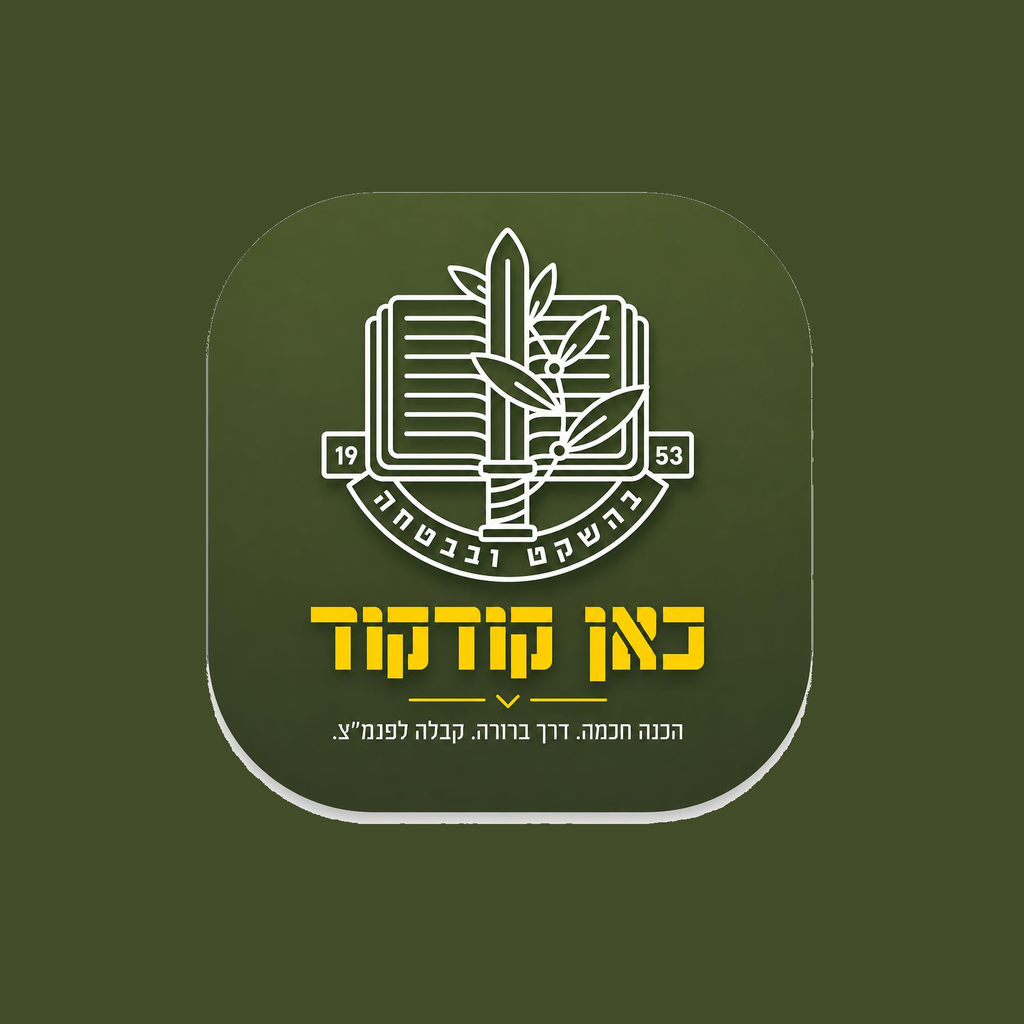
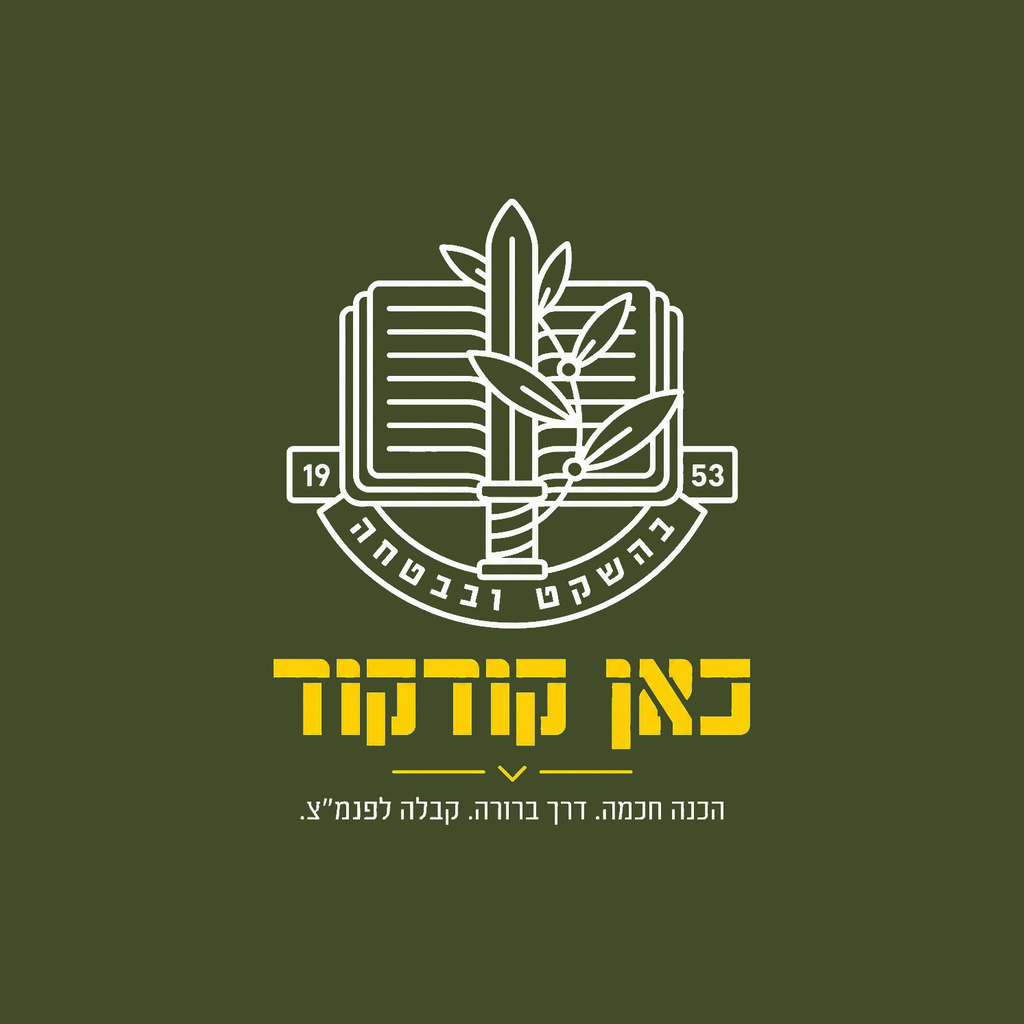
אייקון נקי (בלי מסגרת/צל) + כפתור "קשה לי" להורדת רמה
- אייקון: בידוד האמנות מהאריח והרכבה על רקע זית אחיד — בלי מסגרת,
  צל או קשת שיוריות
- כושר: כפתור "קשה לי" שמוריד את היעד היומי בהדרגה (הפוך מ"קל לי"),
  לא מתחת לנקודת הפתיחה, עם יציאה ממצב תחזוקה בעת הצורך

Claude-Session: https://claude.ai/code/session_013598VmBQVKx8byS7Hrmw2w

diff --git a/src/components/GoalCard.js b/src/components/GoalCard.js
@@ -5,12 +5,13 @@ import Card from './Card';
 import ProgressBar from './ProgressBar';
 import MiniChart from './MiniChart';
 import { colors, radius, spacing, font } from '../theme';
-import { formatValue, unitLabel, goalProgress, reachedFinal } from '../utils/fitness';
+import { formatValue, unitLabel, goalProgress, reachedFinal, atStart } from '../utils/fitness';
 import { HEB_WEEKDAYS_SHORT } from '../utils/date';
 
-export default function GoalCard({ goal, todayDone, onToggleEnabled, onEdit, onBump, onMarkDone, onUnmark }) {
+export default function GoalCard({ goal, todayDone, onToggleEnabled, onEdit, onBump, onLower, onMarkDone, onUnmark }) {
   const measured = goal.tracking === 'measured';
   const done = reachedFinal(goal) || goal.maintenance;
+  const minReached = atStart(goal);
   const daysText = goal.trainingDays.map((d) => HEB_WEEKDAYS_SHORT[d]).join(' · ');
 
   return (
@@ -58,20 +59,34 @@ export default function GoalCard({ goal, todayDone, onToggleEnabled, onEdit, onB
         </View>
       )}
 
-      {/* כפתורי פעולה */}
-      <View style={styles.actions}>
-        {!done ? (
-          <Pressable style={[styles.actionBtn, styles.easyBtn]} onPress={() => onBump(goal.id)}>
-            <Ionicons name="trending-up" size={16} color={colors.gold} />
-            <Text style={styles.easyText}>קל לי — העלה יעד</Text>
+      {/* בקרת רמה — "קשה לי" / "קל לי" — רק לתרגילים נמדדים */}
+      {measured && (
+        <View style={styles.levelRow}>
+          <Pressable
+            style={[styles.actionBtn, styles.hardBtn, minReached && styles.btnDisabled]}
+            onPress={() => onLower(goal.id)}
+            disabled={minReached}
+          >
+            <Ionicons name="trending-down" size={16} color={minReached ? colors.creamDim : colors.cream} />
+            <Text style={[styles.hardText, minReached && { color: colors.creamDim }]}>קשה לי</Text>
           </Pressable>
-        ) : (
-          <View style={[styles.actionBtn, styles.maintBtn]}>
-            <Ionicons name="shield-checkmark" size={16} color={colors.success} />
-            <Text style={styles.maintText}>מצב תחזוקה</Text>
-          </View>
-        )}
 
+          {done ? (
+            <View style={[styles.actionBtn, styles.maintBtn]}>
+              <Ionicons name="shield-checkmark" size={16} color={colors.success} />
+              <Text style={styles.maintText}>תחזוקה</Text>
+            </View>
+          ) : (
+            <Pressable style={[styles.actionBtn, styles.easyBtn]} onPress={() => onBump(goal.id)}>
+              <Ionicons name="trending-up" size={16} color={colors.gold} />
+              <Text style={styles.easyText}>קל לי</Text>
+            </Pressable>
+          )}
+        </View>
+      )}
+
+      {/* סימון ביצוע */}
+      <View style={styles.actions}>
         {todayDone ? (
           <Pressable style={[styles.actionBtn, styles.doneBtn]} onPress={() => onUnmark(goal.id)}>
             <Ionicons name="checkmark-circle" size={18} color={colors.bg} />
@@ -123,13 +138,17 @@ const styles = StyleSheet.create({
   numLabel: { color: colors.creamDim, fontSize: font.tiny },
   numBig: { color: colors.gold, fontSize: 30, fontWeight: '900', lineHeight: 34 },
   numUnit: { color: colors.creamDim, fontSize: font.tiny },
-  actions: { flexDirection: 'row-reverse', gap: spacing.sm, marginTop: spacing.lg },
+  levelRow: { flexDirection: 'row-reverse', gap: spacing.sm, marginTop: spacing.lg },
+  actions: { flexDirection: 'row-reverse', gap: spacing.sm, marginTop: spacing.sm },
   actionBtn: {
     flex: 1, flexDirection: 'row-reverse', alignItems: 'center', justifyContent: 'center', gap: 6,
     paddingVertical: spacing.md, borderRadius: radius.pill,
   },
   easyBtn: { backgroundColor: colors.bgDeep, borderWidth: 1, borderColor: colors.goldDim },
   easyText: { color: colors.gold, fontWeight: '700', fontSize: font.small },
+  hardBtn: { backgroundColor: colors.bgDeep, borderWidth: 1, borderColor: colors.line },
+  hardText: { color: colors.cream, fontWeight: '700', fontSize: font.small },
+  btnDisabled: { opacity: 0.5 },
   maintBtn: { backgroundColor: colors.bgDeep, borderWidth: 1, borderColor: colors.rest },
   maintText: { color: colors.success, fontWeight: '700', fontSize: font.small },
   markBtn: { backgroundColor: colors.bgDeep, borderWidth: 1, borderColor: colors.line },

diff --git a/src/context/AppContext.js b/src/context/AppContext.js
@@ -7,7 +7,7 @@ import {
   DEFAULT_PSYCH_WEEKLY_TARGET,
 } from '../data/defaults';
 import { todayKey } from '../utils/date';
-import { bumpedCurrent, reachedFinal, isNewPersonalBest } from '../utils/fitness';
+import { bumpedCurrent, loweredCurrent, atStart, reachedFinal, isNewPersonalBest } from '../utils/fitness';
 import {
   ensurePermissions,
   scheduleDailyTrainingReminders,
@@ -197,6 +197,26 @@ export function AppProvider({ children }) {
     return event;
   };
 
+  // "קשה לי" — הורדת היעד הנוכחי בהדרגה (יציאה ממצב תחזוקה אם צריך)
+  const lowerGoal = (id) => {
+    let event = 'down';
+    setState((s) => {
+      const goals = s.goals.map((g) => {
+        if (g.id !== id) return g;
+        if (atStart(g)) {
+          event = 'min';
+          return g;
+        }
+        event = 'down';
+        return { ...g, current: loweredCurrent(g), maintenance: false };
+      });
+      return { ...s, goals };
+    });
+    if (event === 'down') flash('הורדת רמה — ממשיכים בקצב שנוח לך 👍');
+    else flash('כבר ברמת הבסיס של היעד');
+    return event;
+  };
+
   // סימון ביצוע יעד היום — כולל שמירת ערך נמדד והיסטוריה לגרף
   const markGoalToday = (id, value) => {
     const key = todayKey();
@@ -293,6 +313,7 @@ export function AppProvider({ children }) {
     addGoal,
     deleteGoal,
     bumpGoal,
+    lowerGoal,
     markGoalToday,
     unmarkGoalToday,
     setDayTrained,

diff --git a/src/utils/fitness.js b/src/utils/fitness.js
@@ -40,6 +40,21 @@ export function bumpedCurrent(goal) {
   return Math.min(goal.final, goal.current + goal.step);
 }
 
+// חישוב היעד הנוכחי אחרי לחיצת "קשה לי" — יורד בהדרגה, לא מתחת לנקודת הפתיחה
+export function loweredCurrent(goal) {
+  if (goal.lowerIsBetter) {
+    // בריצה זמן גבוה יותר = קל יותר
+    return Math.min(goal.start, goal.current + goal.step);
+  }
+  return Math.max(goal.start, goal.current - goal.step);
+}
+
+// האם היעד כבר ברמת הבסיס (אי אפשר להוריד עוד)
+export function atStart(goal) {
+  if (goal.lowerIsBetter) return goal.current >= goal.start;
+  return goal.current <= goal.start;
+}
+
 // האם יום מסוים (0=ראשון..6=שבת) הוא יום אימון עבור היעד
 export function isTrainingWeekday(goal, weekday) {
   return goal.trainingDays.includes(weekday);

diff --git a/src/screens/FitnessScreen.js b/src/screens/FitnessScreen.js
@@ -11,7 +11,7 @@ import { useApp } from '../context/AppContext';
 import { todayKey } from '../utils/date';
 
 export default function FitnessScreen() {
-  const { state, toggleGoalEnabled, updateGoal, deleteGoal, bumpGoal, markGoalToday, unmarkGoalToday, addGoal } = useApp();
+  const { state, toggleGoalEnabled, updateGoal, deleteGoal, bumpGoal, lowerGoal, markGoalToday, unmarkGoalToday, addGoal } = useApp();
   const [valueGoal, setValueGoal] = useState(null);
   const [editGoal, setEditGoal] = useState(null);
 
@@ -62,6 +62,7 @@ export default function FitnessScreen() {
           onToggleEnabled={toggleGoalEnabled}
           onEdit={setEditGoal}
           onBump={bumpGoal}
+          onLower={lowerGoal}
           onMarkDone={handleMarkDone}
           onUnmark={unmarkGoalToday}
         />
